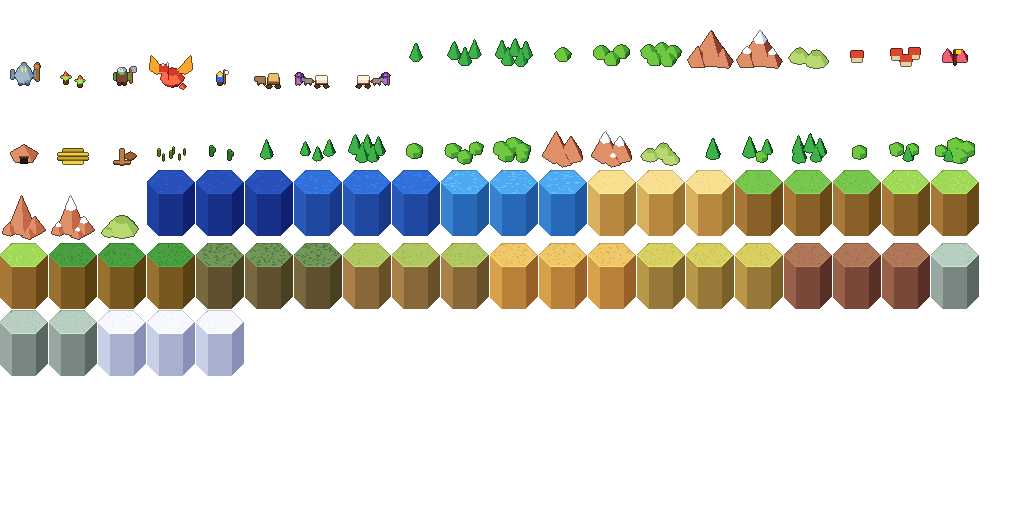
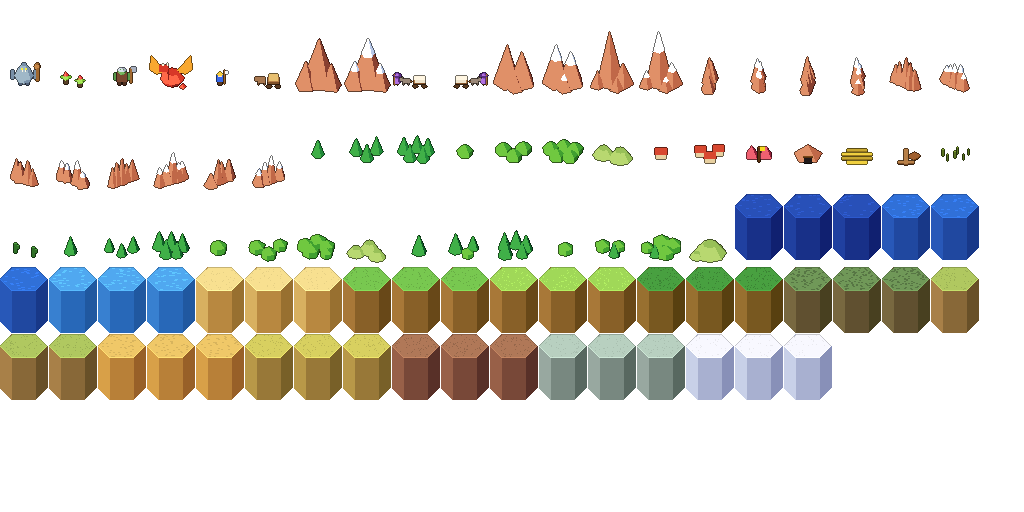
Mountain ranges: much taller peaks joined by jagged ridges on the edges between them; hills are the raised ground itself (no mounds)
Claude-Session: https://claude.ai/code/session_019bZj63bfJ4yeeeApDeBWPP

diff --git a/src/render/MapView.ts b/src/render/MapView.ts
@@ -343,13 +343,15 @@ export class MapView {
       const thing = things.get(i)
       // forests, mountains and hills come in three shapes, picked per hex so ranges don't look stamped
       const variant = ((i * 2654435761) >>> 16) % 3
-      const natural = land!.feature
+      // hills are the raised ground itself: no mounds drawn on top
+      const natural = land!.feature && land!.feature !== 'hills'
         ? (variant && this.atlas.tex(`f_${land!.feature}_v${variant}`) ? `f_${land!.feature}_v${variant}` : `f_${land!.feature}`)
         : null
       // mines and quarries are dug into the mountain: keep the peak, put the shaft in front
       const dug = thing?.name === 'f_mine' && (land!.feature === 'mountain' || land!.feature === 'mountain_snow' || land!.feature === 'hills')
       const layers: { name: string; alpha: number; dy: number }[] = []
-      if (dug) layers.push({ name: natural!, alpha: 1, dy: 0 }, { name: 'f_mine', alpha: thing!.alpha ?? 1, dy: Math.round(W / 10) })
+      if (dug && natural) layers.push({ name: natural, alpha: 1, dy: 0 }, { name: 'f_mine', alpha: thing!.alpha ?? 1, dy: Math.round(W / 10) })
+      else if (dug) layers.push({ name: 'f_mine', alpha: thing!.alpha ?? 1, dy: 0 })
       else if (thing) layers.push({ name: thing.name, alpha: thing.alpha ?? 1, dy: 0 })
       else if (natural) layers.push({ name: natural, alpha: 1, dy: 0 })
       for (const l of layers) {
@@ -369,6 +371,33 @@ export class MapView {
           if (animate) this.ambient.add(cx, cy, () => [[this.ambient.field(cx, cy, i + 0.5), zf]])
         }
       }
+    }
+
+    // Mountain ranges: a jagged ridge on the edge between each pair of
+    // neighbouring mountain hexes, drawn just before the front hex (so its
+    // peak and anything in front still cover it), at the lower hex's ground.
+    for (const i of order) {
+      const a = world.cells[i]
+      if (!revealed.has(i) || !MOUNTAINS.has(a.feature ?? '')) continue
+      const pa = hexToPixel(a.col, a.row, W)
+      neighbours(a.col, a.row).forEach(([nc, nr], k) => {
+        if (k < 1 || k > 3 || nc < 0 || nr < 0 || nc >= world.width || nr >= world.height) return
+        const j = idx(nc, nr)
+        const b = world.cells[j]
+        if (!revealed.has(j) || !MOUNTAINS.has(b.feature ?? '') || rank[j] < 0) return
+        const snow = a.feature === 'mountain_snow' || b.feature === 'mountain_snow'
+        const v = ((i * 73856093) ^ (j * 19349663)) >>> 0
+        const f = this.atlas.tex(`f_jag${snow ? '_snow' : ''}_${JAG_DIR[k]}_${v % 2}`)
+        if (!f) return
+        const pb = hexToPixel(nc, nr, W)
+        const sp = new Sprite(f.texture)
+        sp.cullable = true
+        sp.anchor.set(f.frame.ax / f.frame.w, f.frame.ay / f.frame.h)
+        sp.x = Math.round((pa.x + pb.x) / 2)
+        sp.y = Math.round((pa.y + pb.y) / 2 - Math.min(a.tier, b.tier) * TP)
+        sp.zIndex = z(j, -0.1)
+        this.cells.addChild(sp)
+      })
     }
 
     // Territory borders: dashed, Civilization-style, and part of the painter's
@@ -734,6 +763,9 @@ export const ZOOMS = [0.125, 0.25, 0.5, 1, 2, 3, 4, 5, 6]
 /** Corners of the projected top face (flat-top hex squashed to W x W/2),
  *  clockwise from the right-hand point. */
 const WATER = new Set(['deep', 'ocean', 'shallow'])
+const MOUNTAINS = new Set(['mountain', 'mountain_snow'])
+/** neighbour index (hex.ts order NE, SE, S, SW, NW, N) -> jag sprite direction */
+const JAG_DIR: Record<number, string> = { 1: 'se', 2: 's', 3: 'sw' }
 
 /** A hex's slightly off-centre middle, so roads and rivers bend a little (stable per hex). */
 function bendPoint(seed: number, cx: number, cy: number, W: number): [number, number] {

diff --git a/tools/blender/render_tiles.py b/tools/blender/render_tiles.py
@@ -268,11 +268,15 @@ HILL_SHAPES = [
 ]
 
 
+PEAK_HEIGHT = 1.6  # mountains tower over the land around them
+
+
 def feat_mountain(snow, v=0):
     p = PAL["features"]
 
     def build(W):
-        for (x, y, r, h) in MOUNTAIN_SHAPES[v]:
+        for (x, y, r, h0) in MOUNTAIN_SHAPES[v]:
+            h = h0 * PEAK_HEIGHT
             cone((x, y, 0), r, h, p["rock"], segs=5, rot=0.3 + 0.4 * v, shade=(p["rock_light"], p["rock_dark"]))
             if snow:
                 k = 0.38
@@ -559,6 +563,39 @@ for _v in (1, 2):
     FEATURES[f"hills_v{_v}"] = feat_hills(_v)
 
 
+def feat_jag(deg, snow, v=0):
+    """A jagged ridge on the edge between two mountain hexes, so a range reads
+    as one wall of peaks. The origin is the midpoint of the shared edge; the
+    ridge runs from the back hex (A) toward the front one (B) at `deg`."""
+    p = PAL["features"]
+    rng = random.Random(f"jag{deg}:{snow}:{v}")
+    ux, uy = math.cos(math.radians(deg)), math.sin(math.radians(deg))
+    n = 4 + rng.randrange(2)
+    teeth = []
+    for k in range(n):
+        t = -0.62 + 1.24 * (k + rng.uniform(0.25, 0.75)) / n
+        # tallest in the middle of the pass, lower toward the two peaks
+        h = (0.55 + 0.55 * (1 - abs(t) / 0.7)) * rng.uniform(0.8, 1.2) * PEAK_HEIGHT * 0.7
+        teeth.append((t * ux + rng.uniform(-0.08, 0.08), t * uy + rng.uniform(-0.08, 0.08), rng.uniform(0.22, 0.32), h))
+    teeth.sort(key=lambda q: -q[1])  # back to front
+
+    def build(W):
+        for (x, y, r, h) in teeth:
+            rot = rng.uniform(0, 1.2)
+            cone((x, y, 0), r, h, p["rock"], segs=5, rot=rot, shade=(p["rock_light"], p["rock_dark"]))
+            if snow:
+                k = 0.36
+                cone((x, y, h * (1 - k) + 0.01), r * k + 0.02, h * k, p["snow"], segs=5, rot=rot, shade=(p["snow"], p["snow_dark"]))
+    return build
+
+
+# jags toward the three front neighbours (S, SE, SW), two shapes each, plain and snowy
+for _d, _deg in (("s", 270), ("se", 330), ("sw", 210)):
+    for _v in (0, 1):
+        FEATURES[f"jag_{_d}_{_v}"] = feat_jag(_deg, False, _v)
+        FEATURES[f"jag_snow_{_d}_{_v}"] = feat_jag(_deg, True, _v)
+
+
 def main():
     a = args()
     W = a["size"]
@@ -597,7 +634,7 @@ def main():
             H = face + (MAX_TIER + 1) * tier
             ax, ay = W // 2, face // 2
         else:
-            H = W * 2 if name in CREATURE_SCALE else W * 3 // 2
+            H = W * 2 if name in CREATURE_SCALE or name.startswith(("mountain", "jag")) else W * 3 // 2
             ax, ay = W // 2, H - face // 2
         setup_camera(W, H, ax, ay)
         render(os.path.join(out, kind, name + ".png"))
